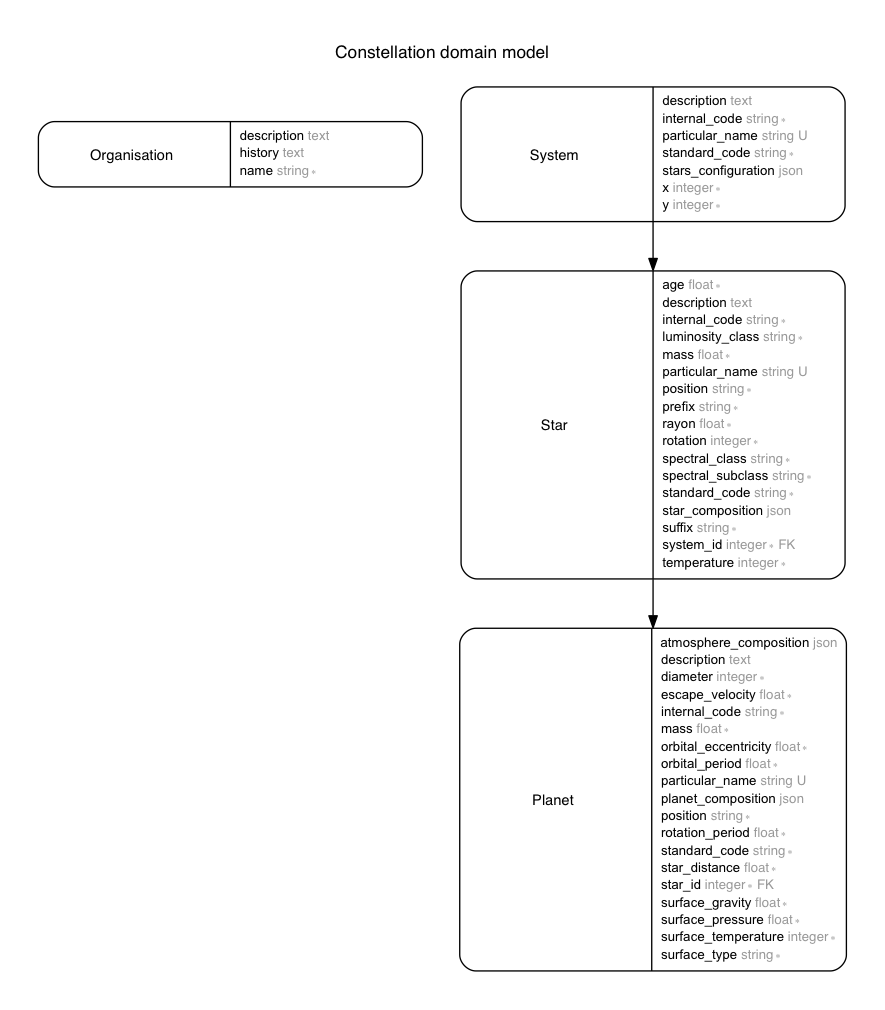
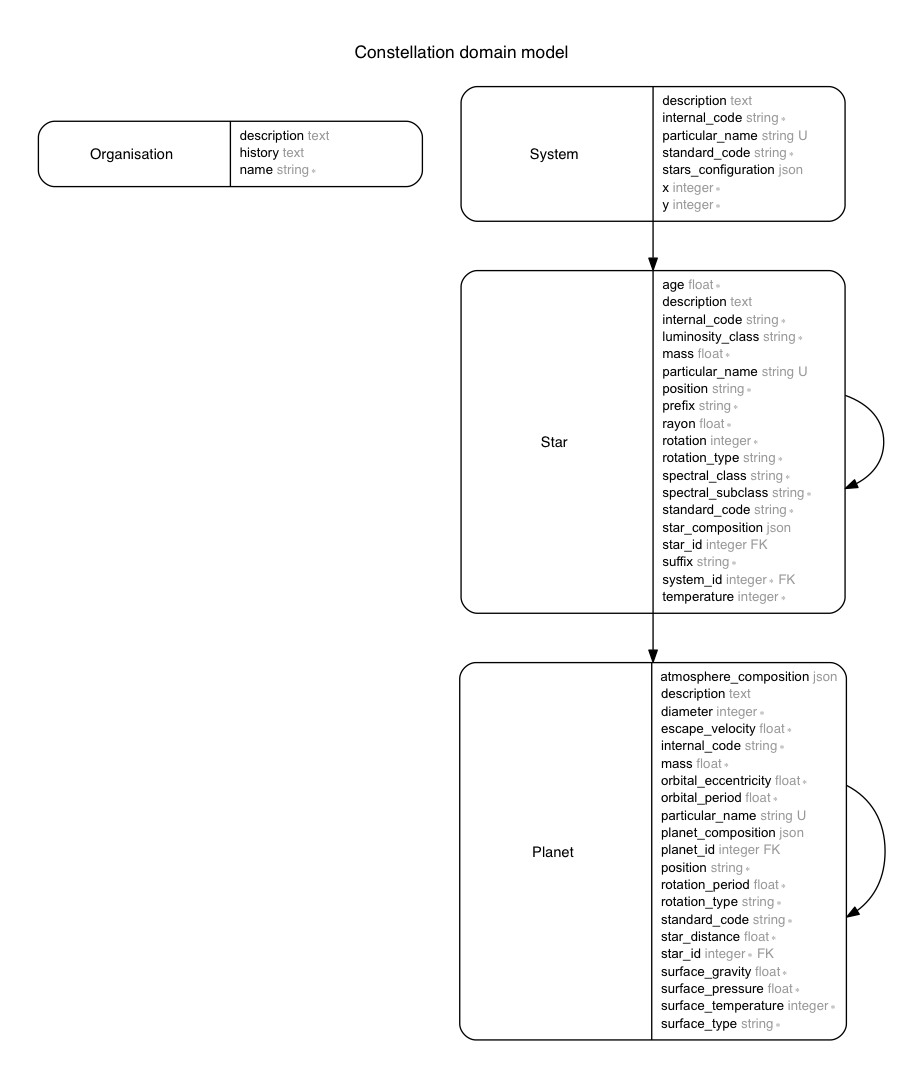
:runner: Add canvas systems displaying and React test

diff --git a/db/schema.rb b/db/schema.rb
@@ -25,50 +25,54 @@ ActiveRecord::Schema.define(version: 20161127194945) do
   end
 
   create_table "planets", force: :cascade do |t|
-    t.integer  "star_id",                                 null: false
-    t.string   "standard_code",                           null: false
-    t.string   "internal_code",                           null: false
+    t.integer  "star_id",                                   null: false
+    t.integer  "planet_id"
+    t.string   "standard_code",                             null: false
+    t.string   "internal_code",                             null: false
     t.string   "particular_name"
-    t.string   "position",               default: "a",    null: false
-    t.float    "star_distance",          default: 1.0,    null: false
-    t.integer  "diameter",               default: 12742,  null: false
-    t.float    "mass",                   default: 1.0,    null: false
-    t.float    "orbital_period",         default: 365.25, null: false
-    t.float    "orbital_eccentricity",   default: 0.01,   null: false
-    t.float    "rotation_period",        default: 1.0,    null: false
-    t.float    "surface_gravity",        default: 1.0,    null: false
-    t.float    "surface_pressure",       default: 1.0,    null: false
-    t.integer  "surface_temperature",    default: 350,    null: false
-    t.string   "surface_type",           default: "t",    null: false
-    t.float    "escape_velocity",        default: 11.15,  null: false
+    t.string   "position",               default: "a",      null: false
+    t.string   "rotation_type",          default: "planet", null: false
+    t.float    "star_distance",          default: 1.0,      null: false
+    t.integer  "diameter",               default: 12742,    null: false
+    t.float    "mass",                   default: 1.0,      null: false
+    t.float    "orbital_period",         default: 365.25,   null: false
+    t.float    "orbital_eccentricity",   default: 0.01,     null: false
+    t.float    "rotation_period",        default: 1.0,      null: false
+    t.float    "surface_gravity",        default: 1.0,      null: false
+    t.float    "surface_pressure",       default: 1.0,      null: false
+    t.integer  "surface_temperature",    default: 350,      null: false
+    t.string   "surface_type",           default: "t",      null: false
+    t.float    "escape_velocity",        default: 11.15,    null: false
     t.json     "planet_composition"
     t.json     "atmosphere_composition"
     t.text     "description"
-    t.datetime "created_at",                              null: false
-    t.datetime "updated_at",                              null: false
+    t.datetime "created_at",                                null: false
+    t.datetime "updated_at",                                null: false
     t.index ["particular_name"], name: "index_planets_on_particular_name", unique: true, using: :btree
   end
 
   create_table "stars", force: :cascade do |t|
-    t.integer  "system_id",                        null: false
-    t.string   "standard_code",                    null: false
-    t.string   "internal_code",                    null: false
+    t.integer  "system_id",                          null: false
+    t.integer  "star_id"
+    t.string   "standard_code",                      null: false
+    t.string   "internal_code",                      null: false
     t.string   "particular_name"
-    t.string   "position",          default: "A",  null: false
-    t.string   "spectral_class",                   null: false
-    t.string   "spectral_subclass",                null: false
-    t.string   "luminosity_class",                 null: false
-    t.string   "prefix",            default: "",   null: false
-    t.string   "suffix",            default: "",   null: false
-    t.integer  "rotation",          default: 28,   null: false
-    t.integer  "temperature",       default: 5750, null: false
-    t.float    "age",               default: 4.5,  null: false
-    t.float    "mass",              default: 1.0,  null: false
-    t.float    "rayon",             default: 1.0,  null: false
+    t.string   "position",          default: "A",    null: false
+    t.string   "rotation_type",     default: "star", null: false
+    t.string   "spectral_class",                     null: false
+    t.string   "spectral_subclass",                  null: false
+    t.string   "luminosity_class",                   null: false
+    t.string   "prefix",            default: "",     null: false
+    t.string   "suffix",            default: "",     null: false
+    t.integer  "rotation",          default: 28,     null: false
+    t.integer  "temperature",       default: 5750,   null: false
+    t.float    "age",               default: 4.5,    null: false
+    t.float    "mass",              default: 1.0,    null: false
+    t.float    "rayon",             default: 1.0,    null: false
     t.json     "star_composition"
     t.text     "description"
-    t.datetime "created_at",                       null: false
-    t.datetime "updated_at",                       null: false
+    t.datetime "created_at",                         null: false
+    t.datetime "updated_at",                         null: false
     t.index ["particular_name"], name: "index_stars_on_particular_name", unique: true, using: :btree
   end
 

diff --git a/app/models/planet.rb b/app/models/planet.rb
@@ -4,10 +4,12 @@
 #
 #  id                     :integer          not null, primary key
 #  star_id                :integer          not null
+#  planet_id              :integer
 #  standard_code          :string           not null
 #  internal_code          :string           not null
 #  particular_name        :string
 #  position               :string           default("a"), not null
+#  rotation_type          :string           default("planet"), not null
 #  star_distance          :float            default(1.0), not null
 #  diameter               :integer          default(12742), not null
 #  mass                   :float            default(1.0), not null
@@ -32,8 +34,10 @@ class Planet < ApplicationRecord
 
   POSITION = %w(a b c d e f g h i j k l m n o p q r s t u v w x y z).freeze
   SURFACE_TYPE = %w(t i g).freeze
+  ROTATION_TYPES = %w(planet satellite).freeze
 
   belongs_to :star
+  has_many :planets
 
   validates :particular_name, uniqueness: true, allow_nil: true
   validates :star_id, presence: true

diff --git a/app/models/star.rb b/app/models/star.rb
@@ -4,10 +4,12 @@
 #
 #  id                :integer          not null, primary key
 #  system_id         :integer          not null
+#  star_id           :integer
 #  standard_code     :string           not null
 #  internal_code     :string           not null
 #  particular_name   :string
 #  position          :string           default("A"), not null
+#  rotation_type     :string           default("star"), not null
 #  spectral_class    :string           not null
 #  spectral_subclass :string           not null
 #  luminosity_class  :string           not null
@@ -45,9 +47,11 @@ class Star < ApplicationRecord
     T: { tmin: 550, tmax: 1300, mmin: 0.02, mmax: 0.05, rmin: 0.05, rmax: 0.1 },
     Y: { tmin: 250, tmax: 550, mmin: 0.01, mmax: 0.02, rmin: 0.01, rmax: 0.05 }
   }.freeze
+  ROTATION_TYPES = %w(star secondary binary).freeze
 
   belongs_to :system
   has_many :planets
+  has_many :stars
 
   validates :particular_name, uniqueness: true, allow_nil: true
   validates :system_id, presence: true

diff --git a/test/models/planet_test.rb b/test/models/planet_test.rb
@@ -4,10 +4,12 @@
 #
 #  id                     :integer          not null, primary key
 #  star_id                :integer          not null
+#  planet_id              :integer
 #  standard_code          :string           not null
 #  internal_code          :string           not null
 #  particular_name        :string
 #  position               :string           default("a"), not null
+#  rotation_type          :string           default("planet"), not null
 #  star_distance          :float            default(1.0), not null
 #  diameter               :integer          default(12742), not null
 #  mass                   :float            default(1.0), not null

diff --git a/db/migrate/20161127194945_create_planets.rb b/db/migrate/20161127194945_create_planets.rb
@@ -2,10 +2,12 @@ class CreatePlanets < ActiveRecord::Migration[5.0]
   def change
     create_table :planets do |t|
       t.integer :star_id, null: false
+      t.integer :planet_id
       t.string :standard_code, null: false
       t.string :internal_code, null: false
       t.string :particular_name
       t.string :position, null: false, default: 'a'
+      t.string :rotation_type, null:false, default: 'planet'
       t.float :star_distance, null: false, default: 1.0
       t.integer :diameter, null: false, default: 12742
       t.float :mass, null: false, default: 1.0

diff --git a/test/models/star_test.rb b/test/models/star_test.rb
@@ -4,10 +4,12 @@
 #
 #  id                :integer          not null, primary key
 #  system_id         :integer          not null
+#  star_id           :integer
 #  standard_code     :string           not null
 #  internal_code     :string           not null
 #  particular_name   :string
 #  position          :string           default("A"), not null
+#  rotation_type     :string           default("star"), not null
 #  spectral_class    :string           not null
 #  spectral_subclass :string           not null
 #  luminosity_class  :string           not null

diff --git a/db/migrate/20161127164319_create_stars.rb b/db/migrate/20161127164319_create_stars.rb
@@ -2,10 +2,12 @@ class CreateStars < ActiveRecord::Migration[5.0]
   def change
     create_table :stars do |t|
       t.integer :system_id, null: false
+      t.integer :star_id
       t.string :standard_code, null: false
       t.string :internal_code, null: false
       t.string :particular_name
       t.string :position, null: false, default: 'A'
+      t.string :rotation_type, null: false, default: 'star'
       t.string :spectral_class, null: false
       t.string :spectral_subclass, null: false
       t.string :luminosity_class, null: false

diff --git a/app/controllers/systems_controller.rb b/app/controllers/systems_controller.rb
@@ -16,6 +16,7 @@ class SystemsController < ApplicationController
   # GET /systems/new
   def new
     @system = System.new
+    @test = 'coucou'
   end
 
   # GET /systems/1/edit
